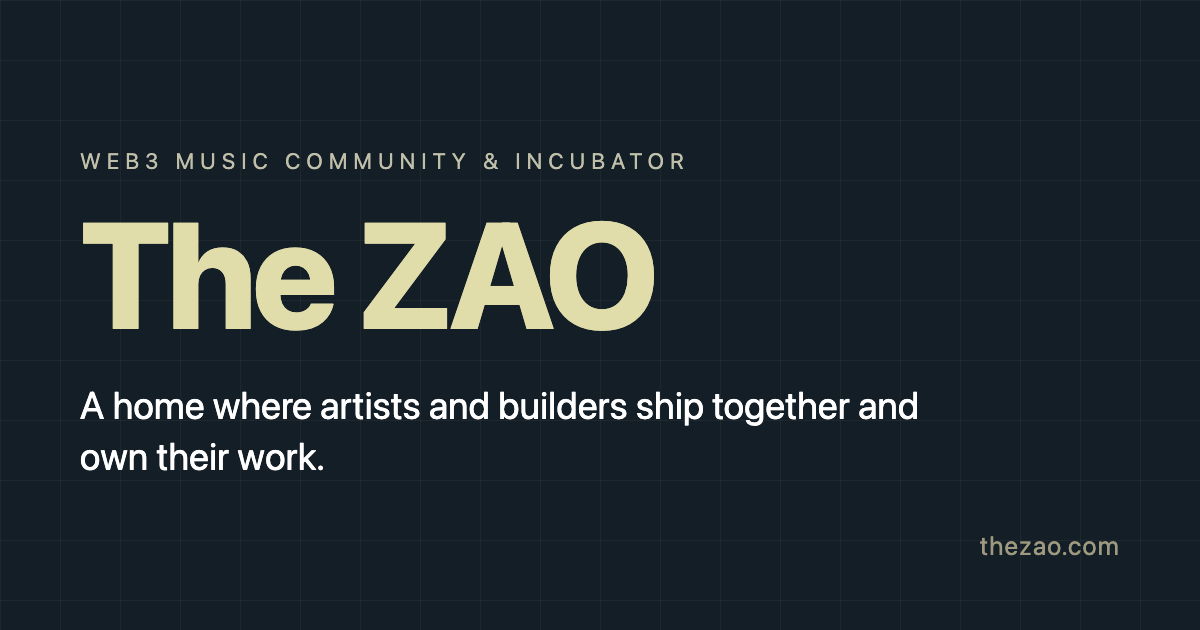
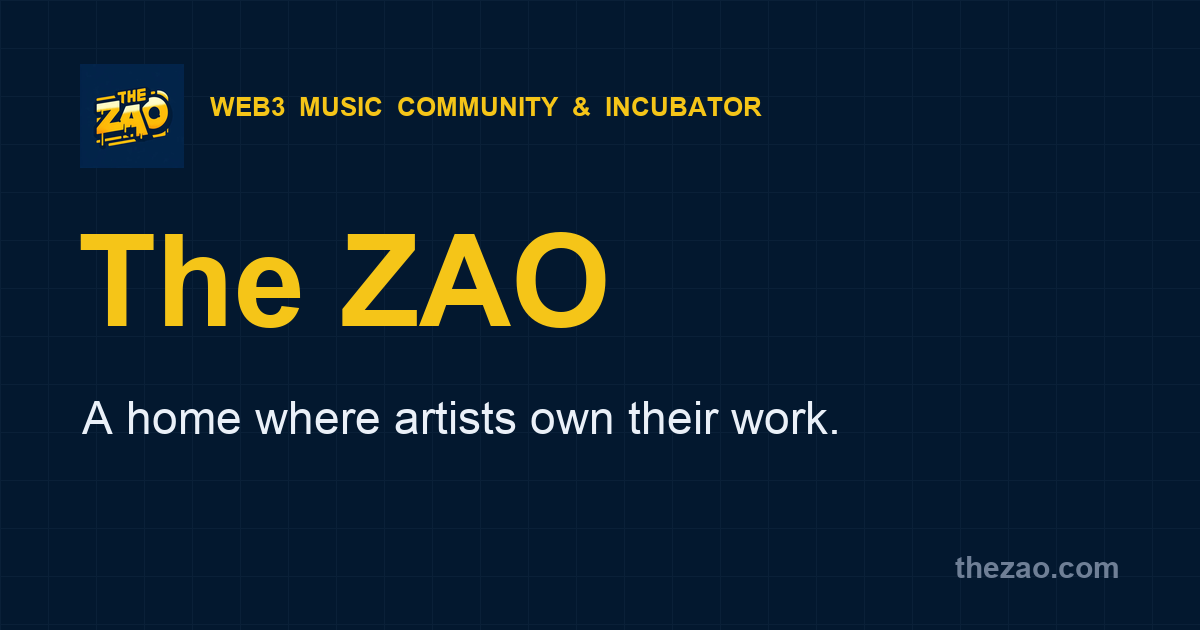
Share-ready: navy/gold OG image + fix preview URL to work pre-DNS-switch

diff --git a/app/layout.tsx b/app/layout.tsx
@@ -7,25 +7,26 @@ export const metadata: Metadata = {
   description: 'A web3 music community and incubator for artists, creators, and builders.',
   keywords: ['web3', 'music', 'community', 'incubator', 'artists', 'creators'],
   openGraph: {
-    title: 'The ZAO',
-    description: 'Web3 music community and incubator',
+    title: 'The ZAO - a home where artists own their work',
+    description: 'A web3 music community and incubator. Live-traded music, governance you earn, built in the open on Farcaster and Base.',
     url: 'https://thezao.com',
     siteName: 'The ZAO',
     images: [
       {
-        url: 'https://thezao.com/og-image.png',
+        // Absolute vercel.app URL so the preview works while thezao.com still points to the old site (pre-DNS-switch).
+        url: 'https://zao-website.vercel.app/og-image.png',
         width: 1200,
         height: 630,
-        alt: 'The ZAO',
+        alt: 'The ZAO - a home where artists own their work',
       },
     ],
     type: 'website',
   },
   twitter: {
     card: 'summary_large_image',
-    title: 'The ZAO',
-    description: 'Web3 music community and incubator',
-    images: ['https://thezao.com/og-image.png'],
+    title: 'The ZAO - a home where artists own their work',
+    description: 'A web3 music community and incubator. Live-traded music, governance you earn, built in the open.',
+    images: ['https://zao-website.vercel.app/og-image.png'],
   },
   icons: {
     icon: [{ url: '/favicon-32.png', sizes: '32x32', type: 'image/png' }],
